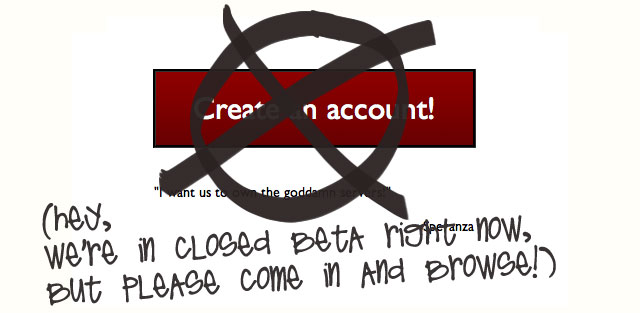
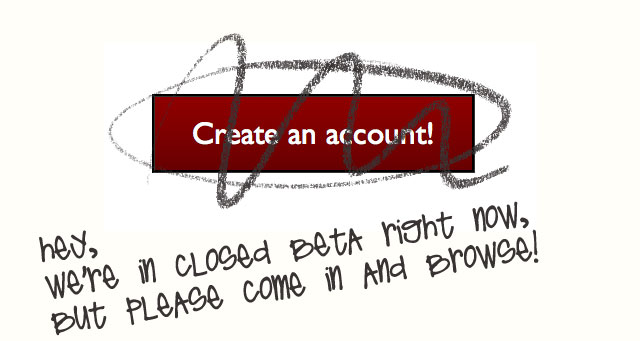
homepage second pass--everything but the login.

Changed region(s): [[0.0625, 0.0, 0.875, 0.9776], [0.1562, 0.345, 0.1875, 0.4313]]

diff --git a/public/stylesheets/layout-elements.css b/public/stylesheets/layout-elements.css
@@ -71,11 +71,11 @@ ul#main-navigation { position: relative; clear: both; border-left: 1px solid #11
 
 /*PAGE BY PAGE STYLING: NEW SESSION HOME HOME SUBPAGES FANDOMS PEOPLE GROUPS RECS TAGS*/
 
-/*SESSIONS (front front pages - login, create, logout(feedbacks)etc)*/
-#main.session h1, #main.session h1, #main.passwords-new h1 { text-align: left; margin: 0.75em 0 0.125em 0; border: 0;}
-#main.session h1 a, #main.session h1 a, #main.passwords-new h1 a {text-decoration:none;}
-#main.session h1 span span {font-size:1em;}
-#main.session h2, #main.session h2, #main.passwords-new h2 { font: 100 0.75em "Gill Sans", Georgia, Verdana, sans-serif; margin: 0.25em auto 2em}
+/*SESSIONS (front front pages - home, login, create, logout(feedbacks)etc)*/
+#main.session h1, #main.session h1, #main.passwords-new h1, #main.home h1{ text-align: left; margin: 0.75em 0 0.125em 0; border: 0;}
+#main.session h1 a, #main.session h1 a, #main.passwords-new h1 a, #main.home h1 a {text-decoration:none;}
+#main.session h1 span span, #main.home h1 span  {font-size:0.875em;}
+#main.session h2, #main.session h2, #main.passwords-new h2, #main.home h2 { font: 100 0.75em "Gill Sans", Georgia, Verdana, sans-serif; margin: 0.25em auto 2em}
 
 .session #logo { width: 49%; display: block; float: left; margin-bottom: 1.5em}
 .session #signin { width: 49%; float: left; margin-bottom: 1.5em; }

diff --git a/public/stylesheets/forms.css b/public/stylesheets/forms.css
@@ -51,7 +51,7 @@ admin_session-new dd	{ float:left; margin:0.25em 0 0.125em; }
 
 
 /*SESSIONS (front front pages - login, create, etc)*/
-img#openid	{ margin-left:-20px; vertical-align:middle; }
+.session img#openid	{ margin-left:-20px; vertical-align:middle; }
 .session form	{ margin-bottom:1.5em; padding-bottom:1.5em; border-bottom:1px solid; }
 .session label	{ font-weight:100; }
 .session input#login	{ float:none; }

diff --git a/public/stylesheets/home.css b/public/stylesheets/home.css
@@ -22,6 +22,7 @@
     text-decoration: none;
     text-transform: lowercase;
 }
+#main.home .wrapper span {font-weight:600;}
 
 #main.home h5 {
     text-align: right;
